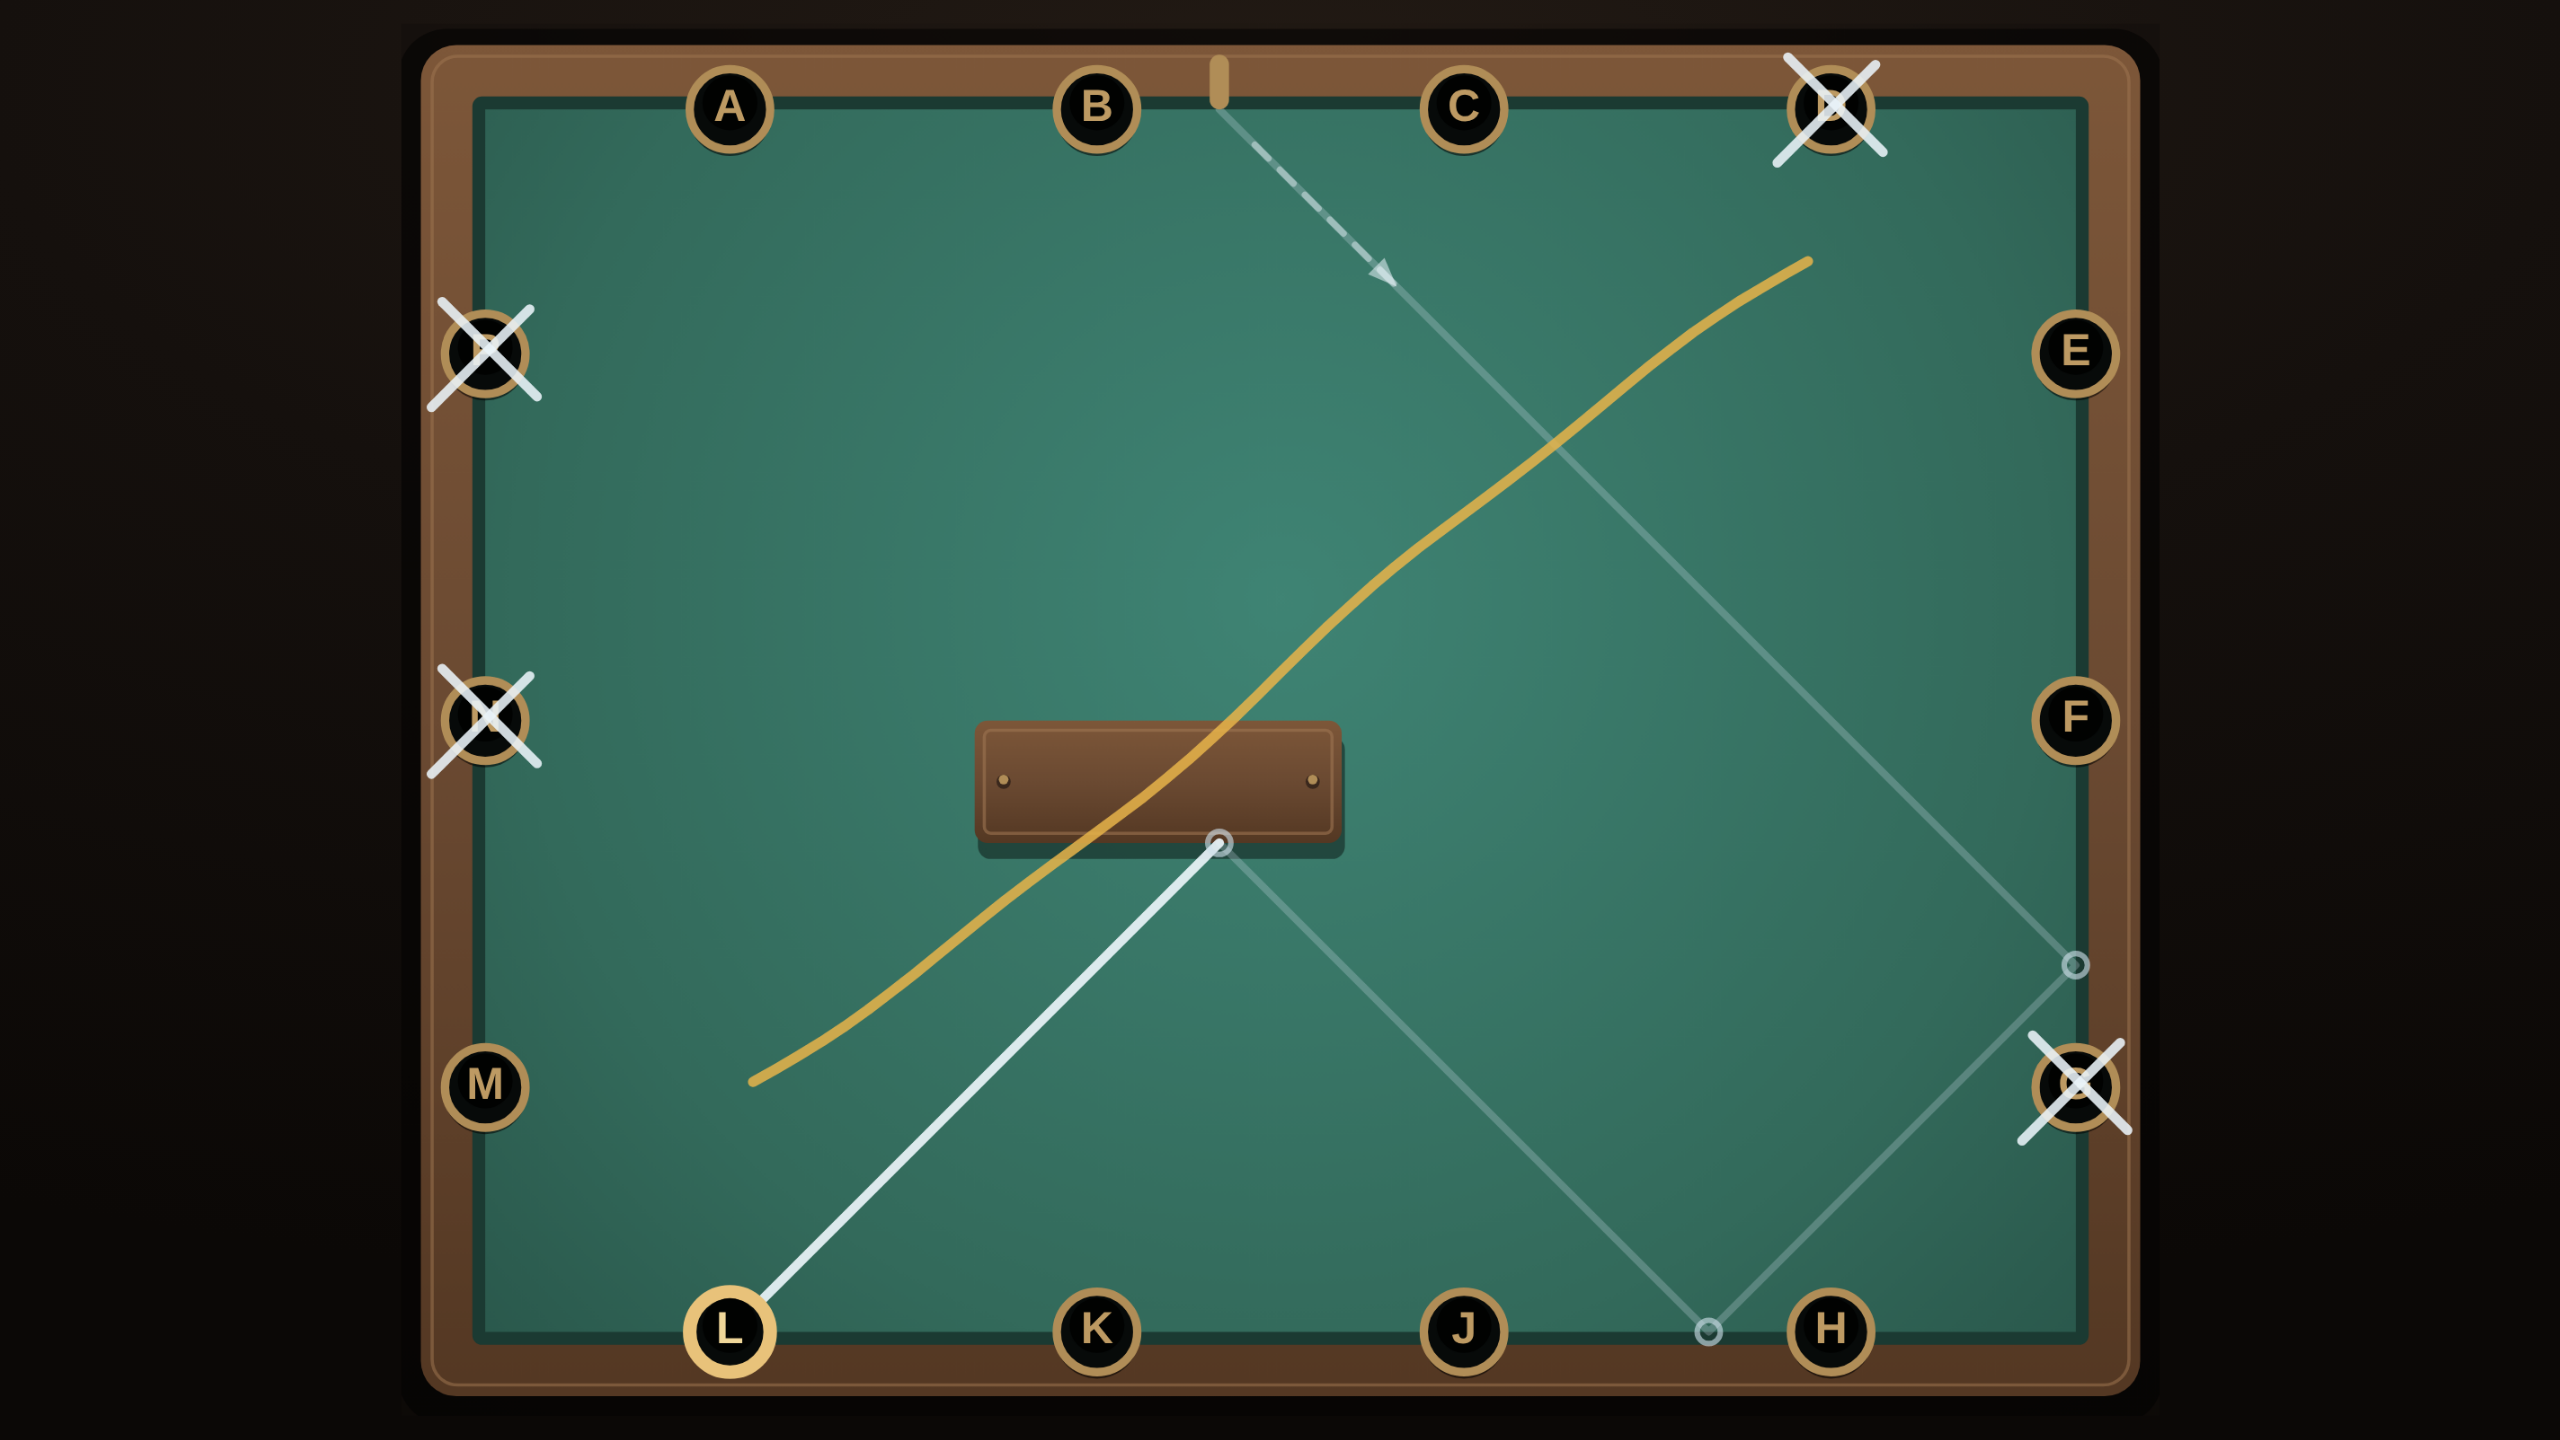
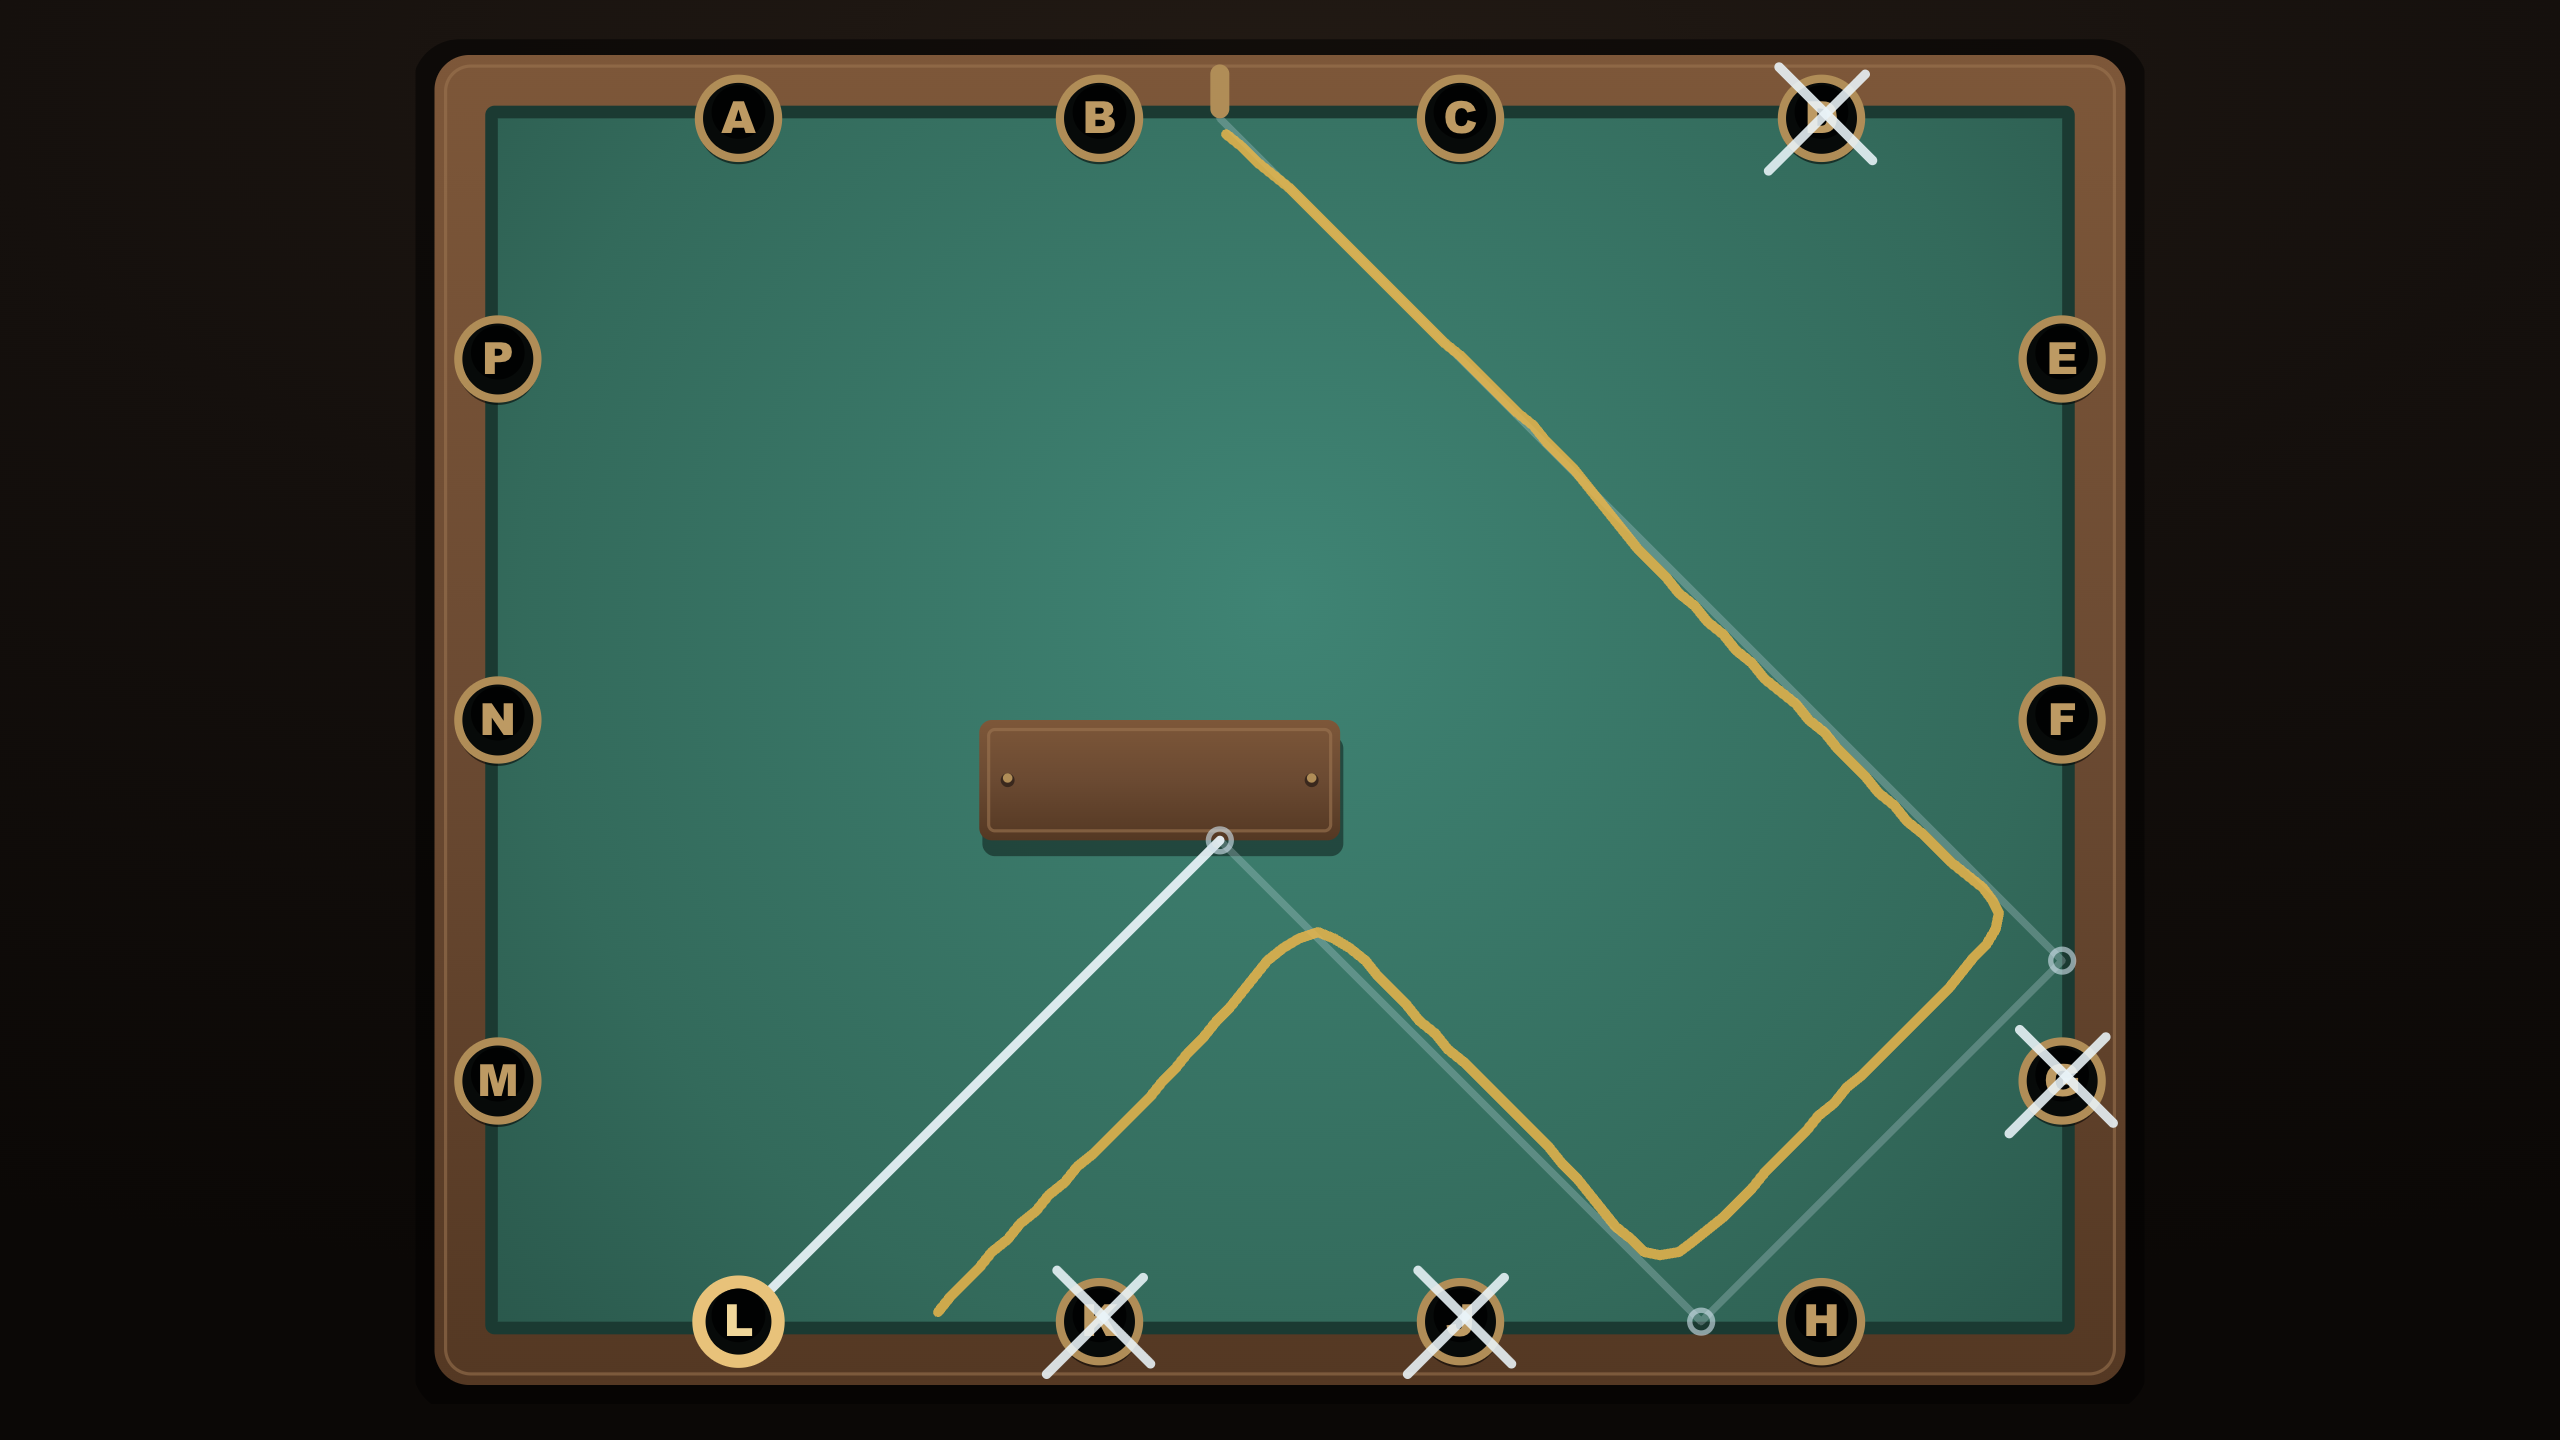
feat(shotcall): recapture the cover with a chalk line that calls the shot
The amber line on the cover banked off nothing and ended nowhere. It was a
freehand swoosh someone drew during a capture, and on the share card -- the
whole of what a link pasted into a chat shows -- it read as a stray mark
rather than as the feature working.

Recaptured by driving the real game rather than by hand. The day's true
path is computed from trace.mjs first (13x10, in at the top rail, off the
right rail, the bottom rail and the underside of the block, down into L),
then the stroke is drawn against it with real pointer events: banking
short at each rail and putting the block's deflection low and right, so it
dies on the bottom rail beside K while the ball drops into L. The scorecard
called it 0.4 dots off.

The chalk tool is untouched -- still freehand, still no snapping, still no
smoothing. The point is a hand that was close and wrong, not a ruler.

Framing held at the previous capture's 67.5% of frame width by 95% of
height, so the card composer's crop still lands where its comment says.
The card headline follows the game to "Choose the landing hole." and
coverAlt now describes the picture that is actually there.

diff --git a/scripts/share-cards/shotcall.html b/scripts/share-cards/shotcall.html
@@ -118,7 +118,7 @@
   <div class="text">
     <div class="name">SHOTCALL</div>
     <div class="rule-line"></div>
-    <div class="ask">Which pocket does it drop into?</div>
+    <div class="ask">Choose the landing hole.</div>
     <div class="terms">3 bounces &middot; 4 tries &middot; 14 pockets</div>
   </div>
   <div class="ball">A new table every day</div>

diff --git a/DESIGN_SYSTEM.md b/DESIGN_SYSTEM.md
@@ -617,6 +617,7 @@ for each is in the commit, the plan, or the code comment named.
 | 2026-09-11 | The work index filters by **category** (Work · Tools · Games) instead of by stack. The stack row had reached forty chips for eight projects: a tag cloud that grew with every library and answered a question no visitor asks. A category says what the thing is; the set is a closed enum, required on top-level projects, and a tab appears only once something is filed under it. Future kinds (animations, writing) are one line each. |
 | 2026-09-12 | Shotcall's mobile pass, from an audit driven on a phone-sized viewport. The table svg is `role="group"` rather than `role="img"`: an img's children are presentational by spec and the table carries fourteen buttons. The audit first called this a screen-reader defect on the strength of the browser pane's DOM walker, which does not list the pockets under either role; Chromium's real tree, read over the DevTools protocol, exposes all fourteen under both, because focusable descendants override the presentational rule. The role change stays as the honest one; the defect claim was withdrawn. The pocket focus ring was a brass box, because the generic `:focus-visible` rule was declared after the pocket's `outline: none` at equal specificity. The re-rack's cloth panels are clipped to the cloth (they were painted across the rail on the way in). The ball rolls at one speed derived from distance rather than a budget per leg, eases in, and shrinks into the pocket with a ring from the rim instead of vanishing between frames. The first phone screen holds the table and the verdict line: `Demo` gains a `flush` prop the play page passes, which drops the section margin and the card chrome under `sm`, and the game's own phone margins were trimmed (verdict measured at 828px in an 852px viewport, under Safari's bars). Smaller: the aim arrow fades once the ball has left, a ruled-out pocket's X is drawn on rather than stamped, Wipe stays put greyed until the eraser finishes, and the card blanks when a re-rack starts. Rules: a demo's audit is done at the width most of its players use, with the real pointer, not by reading the code; and an accessibility claim is checked against the browser's own accessibility tree, never against a tool's walk of the DOM. |
 | 2026-09-12 | Shotcall says what to do with itself. Three findings from watching a first-time player: the fourteen pockets look like furniture, so the first tap goes to the ball; the scorecard's keys are a 1.5px outline on paper sitting seven pixels from a tally box, which is a 1px outline on paper, so the card reads as four blanks and two more blanks; and the card sat under the fold, so the one line that says *pick a pocket* was never read. Fixes: the rims breathe **cue blue** (`--cue` / `--cue-lit`, the only blue the room did not already own — `--chalk` is the X on a ruled-out pocket, the player's line and the focus ring) for six cycles, all fourteen in unison, retiring on the first pointer, the first pocket focus or the first guess, so the invite and an X are never on the table together; reduced motion keeps the blue and drops the movement, because turning the animation off must not turn the message off. The keys get a 2.5px hard ink shadow and travel when pressed — nothing else on the card has a shadow, so a shadow now means pressable. The sign above the cloth is the title and one instruction, centred: *Choose the landing hole*. The date, the bounce count and *each miss reveals one* came off; the date is on the scorecard where a scorecard's date belongs, and the bounce count is taught by the first miss (*Bounce 1 of 3*). That is 68px of chrome, and the whole card now lands on the first screen at 393×750, 440×782 and 375×600. Rules: a game canvas may spend a colour on an affordance, but never one already carrying a meaning on the same surface; and a hint retires on the first sign the player understood it, because a hint that never gives up is a nag. |
+| 2026-09-12 | The chalk line in a capture has to be a real call. `cover.png` carried a freehand swoosh that banked off nothing and ended nowhere, which on the share card — the whole of what a pasted link shows — read as a stray mark rather than as the feature working. Recaptured by driving the real game: the day's true path is computed from `trace.mjs` first, then the stroke is drawn against it with real pointer events, banking short at each rail and putting the block deflection low, so it lands on the bottom rail beside K while the ball drops into L. Still freehand and still wobbly — the chalk tool is unchanged, and the point is a hand that was close and wrong. Framing held at the previous capture's 67.5% of frame width by 95% of height so the card composer's crop still lands. Rule: a capture shows the feature doing its job on real data, and a placeholder gesture in a shipped image is a bug, not a detail. |
 | 2026-09-03 | CI overlaps the typecheck and the build; the wrangler-action probe dropped. |
 | 2026-09-03 | The second-brain vault written up. |
 | 2026-09-03 | This file. |
